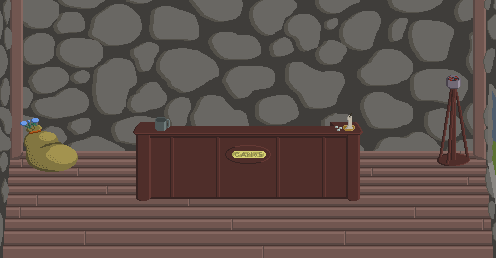
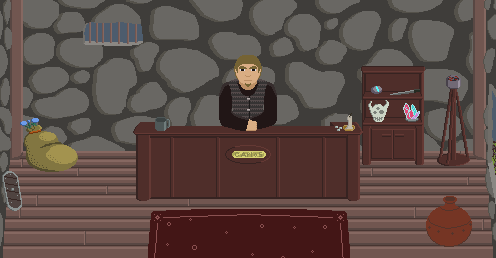
06/06 Tutorial

diff --git a/librerias.py b/librerias.py
@@ -1,33 +1,81 @@
 
 from tkinter import *
 
-class Eleccion:
+class Batallas():                      # Ignorar de mientras <----------------X
+
+  def __init__(self,vid_e,daño_e):
+    self.vida=0                         # son las estadisticas que se modificaran
+    self.fuerza=0
+    self.mana=0
+    self.color_j="Green"
+    self.color_e="Green"
+    self.daño=0
+    self.vid_e=vid_e
+    self.daño_e=daño_e
+  
+  def puñetazos(self):
+    self.daño = self.fuerza
+    self.vid_e-=self.daño
+    self.vida_enemiga()
+
+  def vida_enemiga(self):
+    if self.vid_e <= 30:
+      self.color_e="red"
+    elif self.vid_e <= 70:
+      self.color_e="orange"
+    else:
+      pass
+    
+
+  def Actualiza_Est(self):  # Clase jugador
+    self.estadisticas.config(text=f"Vida: {self.vida}   Fuerza: {self.fuerza}   Mana: {self.mana}") 
+
+class Vendedor():                      # Ignorar de mientras <----------------X
+  def __init__(self,ventana,oro):
+    self.ventana=ventana
+    self.oro=oro
+    self.vend = PhotoImage(file="C:\\Users\\carlo\\OneDrive\\Escritorio\\aventura\\personaje\\vendedor.png")
+    self.vende = Label(self.ventana, image=self.vende, bg="black")
+    self.vende.place(x=260,y=150)
+
+  def comprar(self):
+    self.oro
+#----------------------------------------------------------------------------------------------------------------------------------------------------------------------------
+
+class Eleccion():
   
   def __init__(self,ventana):
+
     self.ventana=ventana
     self.f=""   #<------------------X
     self.estadisticas=Label(self.ventana,text="",bg="black",fg="white") # mustra las estadisticas
     self.estadisticas.place(x=255,y=460)                                # de momento bacias
-    self.vida=0    # son las estadisticas que se modificaran
-    self.fuerza=0
-    self.mana=0
     self.jugador="" # str vacio que despues tomara el nombre de la imagen del personaje
     self.per=False  # Estos dos comprobaran si ya se eligio un nombre y un personaje
     self.nom=False
-
-    self.color_j="Green"
+    
+    self.vida=0    # son las estadisticas que se modificaran
+    self.fuerza=0
+    self.mana=0
+    self.oro=10
+    self.color_j="Green" # Colñor del contorno del enemigo y del jugador
     self.color_e="Green"
     self.daño=0
+    self.entorno=PhotoImage(file="") #cambia el ambiente
+    self.dialogo=Label(self.ventana,text="",bg="black",fg="white") # cambia el dialogo
+    self.dialogo.place(x=255,y=360)
+    self.el_nombre=""
 
   def pri_lucha(self):# Lucha introductoria (Tutorial)
 
     if self.nom and self.per:
 
-      self.estadisticas.config(text=f"Vida: {self.vida}   Fuerza: {self.fuerza}   Mana: {self.mana}") # las estadisticas se actualizan al personaje elejido
+      self.estadisticas.config(text=f"Vida: {self.vida}   Fuerza: {self.fuerza}   Mana: {self.mana}  Oro: {self.oro}") # las estadisticas se actualizan al personaje elejido
 
-      self.ima_bosque = PhotoImage(file=self.imagen("bosque")) 
-      tras_1 = Label(self.ventana, image=self.ima_bosque, bg="black")
-      tras_1.place(x=249,y=64)
+      self.entorno.config(file=self.imagen("bosque"))
+      self.ento = Label(self.ventana, image=self.entorno, bg="black")
+      self.ento.place(x=249,y=64)
+
       self.sl_b = PhotoImage(file=self.imagen("slime2"))
       sli_b = Label(self.ventana, image=self.sl_b, bg=self.color_e)
       sli_b.place(x=260,y=150)
@@ -35,63 +83,111 @@ class Eleccion:
       jugad = Label(self.ventana, image=self.jug, bg=self.color_j)
       jugad.place(x=605,y=150)
 
-      self.intro_atac=Label(self.ventana,text="- Intentando escapar del bosque un slime se interpone en tu camino.\n\n\n<- Defiendete con un ataque.",bg="black",fg="white")
-      self.intro_atac.place(x=255,y=360) 
-      atac=Button(self.ventana,text="Atacar",bg="red",fg="white",command= lambda: self.pri_ataque(atac,self.intro_atac)) #<-----------Command faltante
+      self.dialogo.config(text="- Intentando escapar del bosque un slime se interpone en tu camino.\n\n\n<- Defiendete con un ataque")
+      self.dialogo.place(x=255,y=360) 
+      atac=Button(self.ventana,text="Atacar",bg="red",fg="white",command= lambda: self.pri_ataque(atac,sli_b,jugad))
       atac.place(x=300,y=405)
 
     else:
       pass
 
-  def pri_ataque(self,q,w):
-    bat=Batallas(90,30)
-    self.destructor(q,w)
-    puño=Button(self.ventana,text="   Puñetazo   ",bg="red",fg="white",command= lambda: bat.puñetazos())
-    puño.place(x=265,y=370)
-    mag=Button(self.ventana,text="Impacto magico",bg="red",fg="white")
-    mag.place(x=370,y=370)
-    if self.jugador=="Maga2":
-      tem="Baston"
-    elif self.jugador=="Caballero2":
-      tem="Espada corta"
-    else:
-      tem="Flechas"
-    arma=Button(self.ventana,text=f"   {tem}   ",bg="red",fg="white")
-    arma.place(x=490,y=370)
-    explic=Label(self.ventana,text="Ataque: Fuerza           Ataque: Mana x3          Ataque: Fuerza x2",bg="black",fg="white")
-    explic.place(x=260,y=405)
+  def pri_ataque(self,q,sli_b,jugad):# primer ataque introductoria (Tutorial)
+    self.destructor(q)
+    self.dialogo.config(text="- Agotado, solo fuiste capas de usar tus puños.\n\n\n\nAtaque: Fuerza                                         ")
+    self.dialogo.place(x=255,y=360)
+    puño=Button(self.ventana,text="   Puñetazo   ",bg="red",fg="white",command= lambda: self.pri_putatazo(sli_b,jugad,puño))
+    puño.place(x=280,y=390)
+  
+  def pri_putatazo(self,sli_b,jugad,p):
+    self.destructor(p)
+    self.color_e="orange"
+    sli_b.config(bg=self.color_e)
+    jugad.config(bg=self.color_e)
+    self.vida-=30
+    self.estadisticas.config(text=f"Vida: {self.vida}   Fuerza: {self.fuerza}   Mana: {self.mana}  Oro: {self.oro}")
+    intro_flec=Label(self.ventana,text="  <- Toma una poción para recuperarte.",bg="black",fg="white")
+    intro_flec.place(x=475,y=404)
+    self.dialogo.config(text="- Tras atacar, tambien te han dañado.")
+    self.dialogo.place(x=255,y=360) 
+    poci=Button(self.ventana,text="Pociones",bg="green",fg="white",command= lambda: self.pri_poci(intro_flec,poci,jugad,sli_b))
+    poci.place(x=415,y=405)
+
+  def pri_poci(self,q,e,jugad,sli_b):# Pocion introductoria (Tutorial)
+    self.destructor(q,e)
+    bb="                                                                                                               "
+    self.dialogo.config(text=f"- Toma una poción para recuperar tu vida (Al tomar una poción no sederas el turno).\n\n\n\n\nVida: +30{bb}")
+    self.dialogo.place(x=255,y=360)
+    self.Pr = PhotoImage(file=self.imagen("poci1"))
+    P_r=Button(self.ventana,image=self.Pr,bg="green",fg="white",command= lambda: self.pri_pocion(P_r,jugad,sli_b))
+    P_r.place(x=295,y=390)
+
+  def pri_pocion(self,x,jugad,sli_b):# primera pocion introductoria (Tutorial)
+    self.destructor(x)
+    self.color_j="green"
+    jugad.config(bg=self.color_j)
+    self.vida+=30
+    self.estadisticas.config(text=f"Vida: {self.vida}   Fuerza: {self.fuerza}   Mana: {self.mana}  Oro: {self.oro}")
+    self.dialogo.config(text="- Intenta escapar (Dependiendo del enemigo habra mas o menos pocibilidades de escapar).")
+    self.dialogo.place(x=255,y=360) 
+    escape=Button(self.ventana,text="Escapar",bg="blue",fg="white",command= lambda: self.pri_escape(escape,jugad,sli_b))
+    escape.place(x=530,y=405)
+
+  def pri_escape(self,w,e,r):# Escapar (Tutorial)
+    self.destructor(w,e,r)
+    self.entorno.config(file=self.imagen("intermedio"))
+    self.ento = Label(self.ventana, image=self.entorno, bg="black")  
+    self.ento.place(x=249,y=64)
+    self.dialogo.config(text="- Por el momento dirigete con el vendedor.")
+    self.dialogo.place(x=255,y=360)
+    ven=Button(self.ventana,text="Vendedor",bg="orange",fg="white",command= lambda: self.tienda(ven))
+    ven.place(x=415,y=405)
+
+  def tienda(self,x): # Posiblemente esto se separe para ser una classe en si mismo
+    self.destructor(x)
+    self.entorno.config(file=self.imagen("vendedor"))
+    self.est = Label(self.ventana, image=self.entorno, bg="black")
+    self.est.place(x=249,y=64)
+    self.dialogo.config(text=f"<< ¡Saludos {self.el_nombre}! No te he visto por un tiempo ¿Que compraras? >>")
+    self.dialogo.place(x=255,y=360)
+
+    self.P1 = PhotoImage(file=self.imagen("poci1"))
+    Po1=Button(self.ventana,image=self.P1,bg="green",fg="white") # <-------------- Comando
+    Po1.place(x=265,y=390)
+    self.P2 = PhotoImage(file=self.imagen("poci1"))
+    Po2=Button(self.ventana,image=self.P2,bg="green",fg="white") # <-------------- Comando
+    Po2.place(x=365,y=390)
 
   # ---------------------------------------------------------------------------------------------------------------------------------------------------------------------------------------
   def tr(self,a,s,d): # destrulle al boton, la imagen y el label inicial
     self.destructor(a,s,d)
 
-    self.ima_T_1 = PhotoImage(file=self.imagen("T_1")) 
-    tras_1 = Label(self.ventana, image=self.ima_T_1, bg="black")
+    self.entorno.config(file=self.imagen("T_1")) 
+    tras_1 = Label(self.ventana, image=self.entorno, bg="black")
     tras_1.place(x=249,y=64)
 
     qq="-Sin embargo, en una de sus primeras aventuras se toparían con un inesperado y poderoso"
     ww=" ogro. El cual secuestraria a dos integrantes del equipo…¡Menos a ti aventurero!                    "
-    iniciacion0_1=Label(self.ventana,text=f"{qq}\n{ww}",bg="black",fg="white")
-    iniciacion0_1.place(x=255,y=360)
+    self.dialogo.config(text=f"{qq}\n{ww}")
+    self.dialogo.place(x=255,y=360)
 
-    cont2=Button(self.ventana,text="Continuar >>>",bg="orange",fg="white",command= lambda: self.nom_per(iniciacion0_1,cont2,tras_1)) # segundo continuar
+    cont2=Button(self.ventana,text="Continuar >>>",bg="orange",fg="white",command= lambda: self.nom_per(cont2,tras_1)) # segundo continuar
     cont2.place(x=650,y=450)
 
 
-  def nom_per(self,x,y,z):
-    self.destructor(x,y,z) # destrulle el boton, la imagen y la introduccion prebia
+  def nom_per(self,y,z):
+    self.destructor(y,z) # destrulle el boton, la imagen y la introduccion prebia
 
     # Instrucciones iniciales
     tem="caracteres como máximo y uno mínimo.                                                                                 "
     iniciacion1_0=Label(self.ventana,text="- Elija a su personaje aventurero (No podrás cambiarlo después).",bg="black",fg="white")
     iniciacion1_0.place(x=255,y=70)                                                                                         
-    iniciacion1_1=Label(self.ventana,text=f"- Indique su nombre aventurero (No podrás cambiarlo después). El nombre debe tener 15 \n{tem}",bg="black",fg="white")
-    iniciacion1_1.place(x=255,y=360) 
+    self.dialogo.config(text=f"- Indique su nombre aventurero (No podrás cambiarlo después). El nombre debe tener 15 \n{tem}")
+    self.dialogo.place(x=255,y=360) 
 
     # Ingreso del nombre:
     nombre=Entry(self.ventana) 
     nombre.place(x=410,y=450)
-    nom=Button(self.ventana,text="Aceptar",bg="orange",fg="white",command=lambda: self.Nombre(nombre,iniciacion1_1,nombre,nom))
+    nom=Button(self.ventana,text="Aceptar",bg="orange",fg="white",command=lambda: self.Nombre(nombre,nombre,nom))
     nom.place(x=520,y=448)
 
     # eleccion de personaje:
@@ -103,24 +199,24 @@ class Eleccion:
     mago=Button(self.ventana,text= "Mago",bg="orange",fg="white",command= lambda: self.Personaje(iniciacion1_0,descripcion,mago,caballero,arquero,magico,fuerte,velos,1))
     mago.place(x=315,y=300)
     self.ima_mago = PhotoImage(file=self.imagen("Maga1")) 
-    magico = Label(self.ventana, image=self.ima_mago)
+    magico = Label(self.ventana, image=self.ima_mago,bg="black")
     magico.place(x=270,y=100)
     caballero=Button(self.ventana,text= "Caballero",bg="orange",fg="white",command= lambda: self.Personaje(iniciacion1_0,descripcion,mago,caballero,arquero,magico,fuerte,velos,2))
     caballero.place(x=470,y=300)
     self.ima_caba = PhotoImage(file=self.imagen("caballero1")) 
-    fuerte = Label(self.ventana, image=self.ima_caba)
+    fuerte = Label(self.ventana, image=self.ima_caba,bg="black")
     fuerte.place(x=435,y=100)
     arquero=Button(self.ventana,text= "Arquero",bg="orange",fg="white",command= lambda: self.Personaje(iniciacion1_0,descripcion,mago,caballero,arquero,magico,fuerte,velos,3))
     arquero.place(x=635,y=300)
     self.ima_arqu = PhotoImage(file=self.imagen("Arquero1")) 
-    velos = Label(self.ventana, image=self.ima_arqu)
+    velos = Label(self.ventana, image=self.ima_arqu,bg="black")
     velos.place(x=600,y=100)
 
   def destructor(self,*x): # Destrulle todo lo que le entra
     for e in x:
       e.destroy()
 
-  def Nombre(self,nombre,z,y,t): # Introduce un nombre 
+  def Nombre(self,nombre,y,t): # Introduce un nombre 
     e=nombre.get() # se guarda lo escrito en el Entry
     lx=len(e)
  
@@ -129,8 +225,9 @@ class Eleccion:
     elif lx>=1:
       nombresito=Label(self.ventana,text=e,bg="black",fg="white")
       nombresito.place(x=10,y=12)
-      self.destructor(z,y,t)
+      self.destructor(y,t)
       self.nom=True # self.nom se combierte de False en True
+      self.el_nombre=e
       self.pri_lucha()
 
   
@@ -185,37 +282,6 @@ class Fondo():
       self.imagen_fondo = PhotoImage(file=f"C:\\Users\\carlo\\OneDrive\\Escritorio\\aventura\\personaje\\{fon}.png")
       self.primer_fondo.config(image=self.imagen_fondo)
       self.primer_fondo.place(x=0, y=0)
-
-
-class Batallas():
-
-  def __init__(self,vid_e,daño_e):
-    self.vida=0                         # son las estadisticas que se modificaran
-    self.fuerza=0
-    self.mana=0
-    self.color_j="Green"
-    self.color_e="Green"
-    self.daño=0
-    self.vid_e=vid_e
-    self.vid_cop=vid_e
-    self.daño_e=daño_e
-  
-  def puñetazos(self):
-    self.daño = self.fuerza
-    self.vid_e-=self.daño
-    self.vida_enemiga()
-
-  def vida_enemiga(self):
-    if self.vid_e <= self.vid_cop/3:
-      self.color_e="red"
-    elif self.vid_e <= self.vid_cop/2:
-      self.color_e="orange"
-    else:
-      pass
-    
-
-  def Actualiza_Est(self):  # Clase jugador
-    self.estadisticas.config(text=f"vida:{self.vida} fuerza:{self.fuerza}  mana:{self.mana}") 
 
 
 # self= se referencia a si mismo

diff --git a/x.py b/x.py
@@ -8,7 +8,8 @@ def mai():
     d="red"
     x=Label(ven,text=y,bg=d)
     x.place(x=0,y=0)
-    b=Button(ven,text="x",command= lambda: cam(y,d))
+    tt=PhotoImage(file="C:\\Users\\carlo\\OneDrive\\Escritorio\\aventura\\personaje\\poci1.png")
+    b=Button(ven,image=tt,command= lambda: cam(y,d))
     b.place(x=0,y=30)
     t=Button(ven,text="0",command= lambda: zero(y))
     t.place(x=0,y=60)
